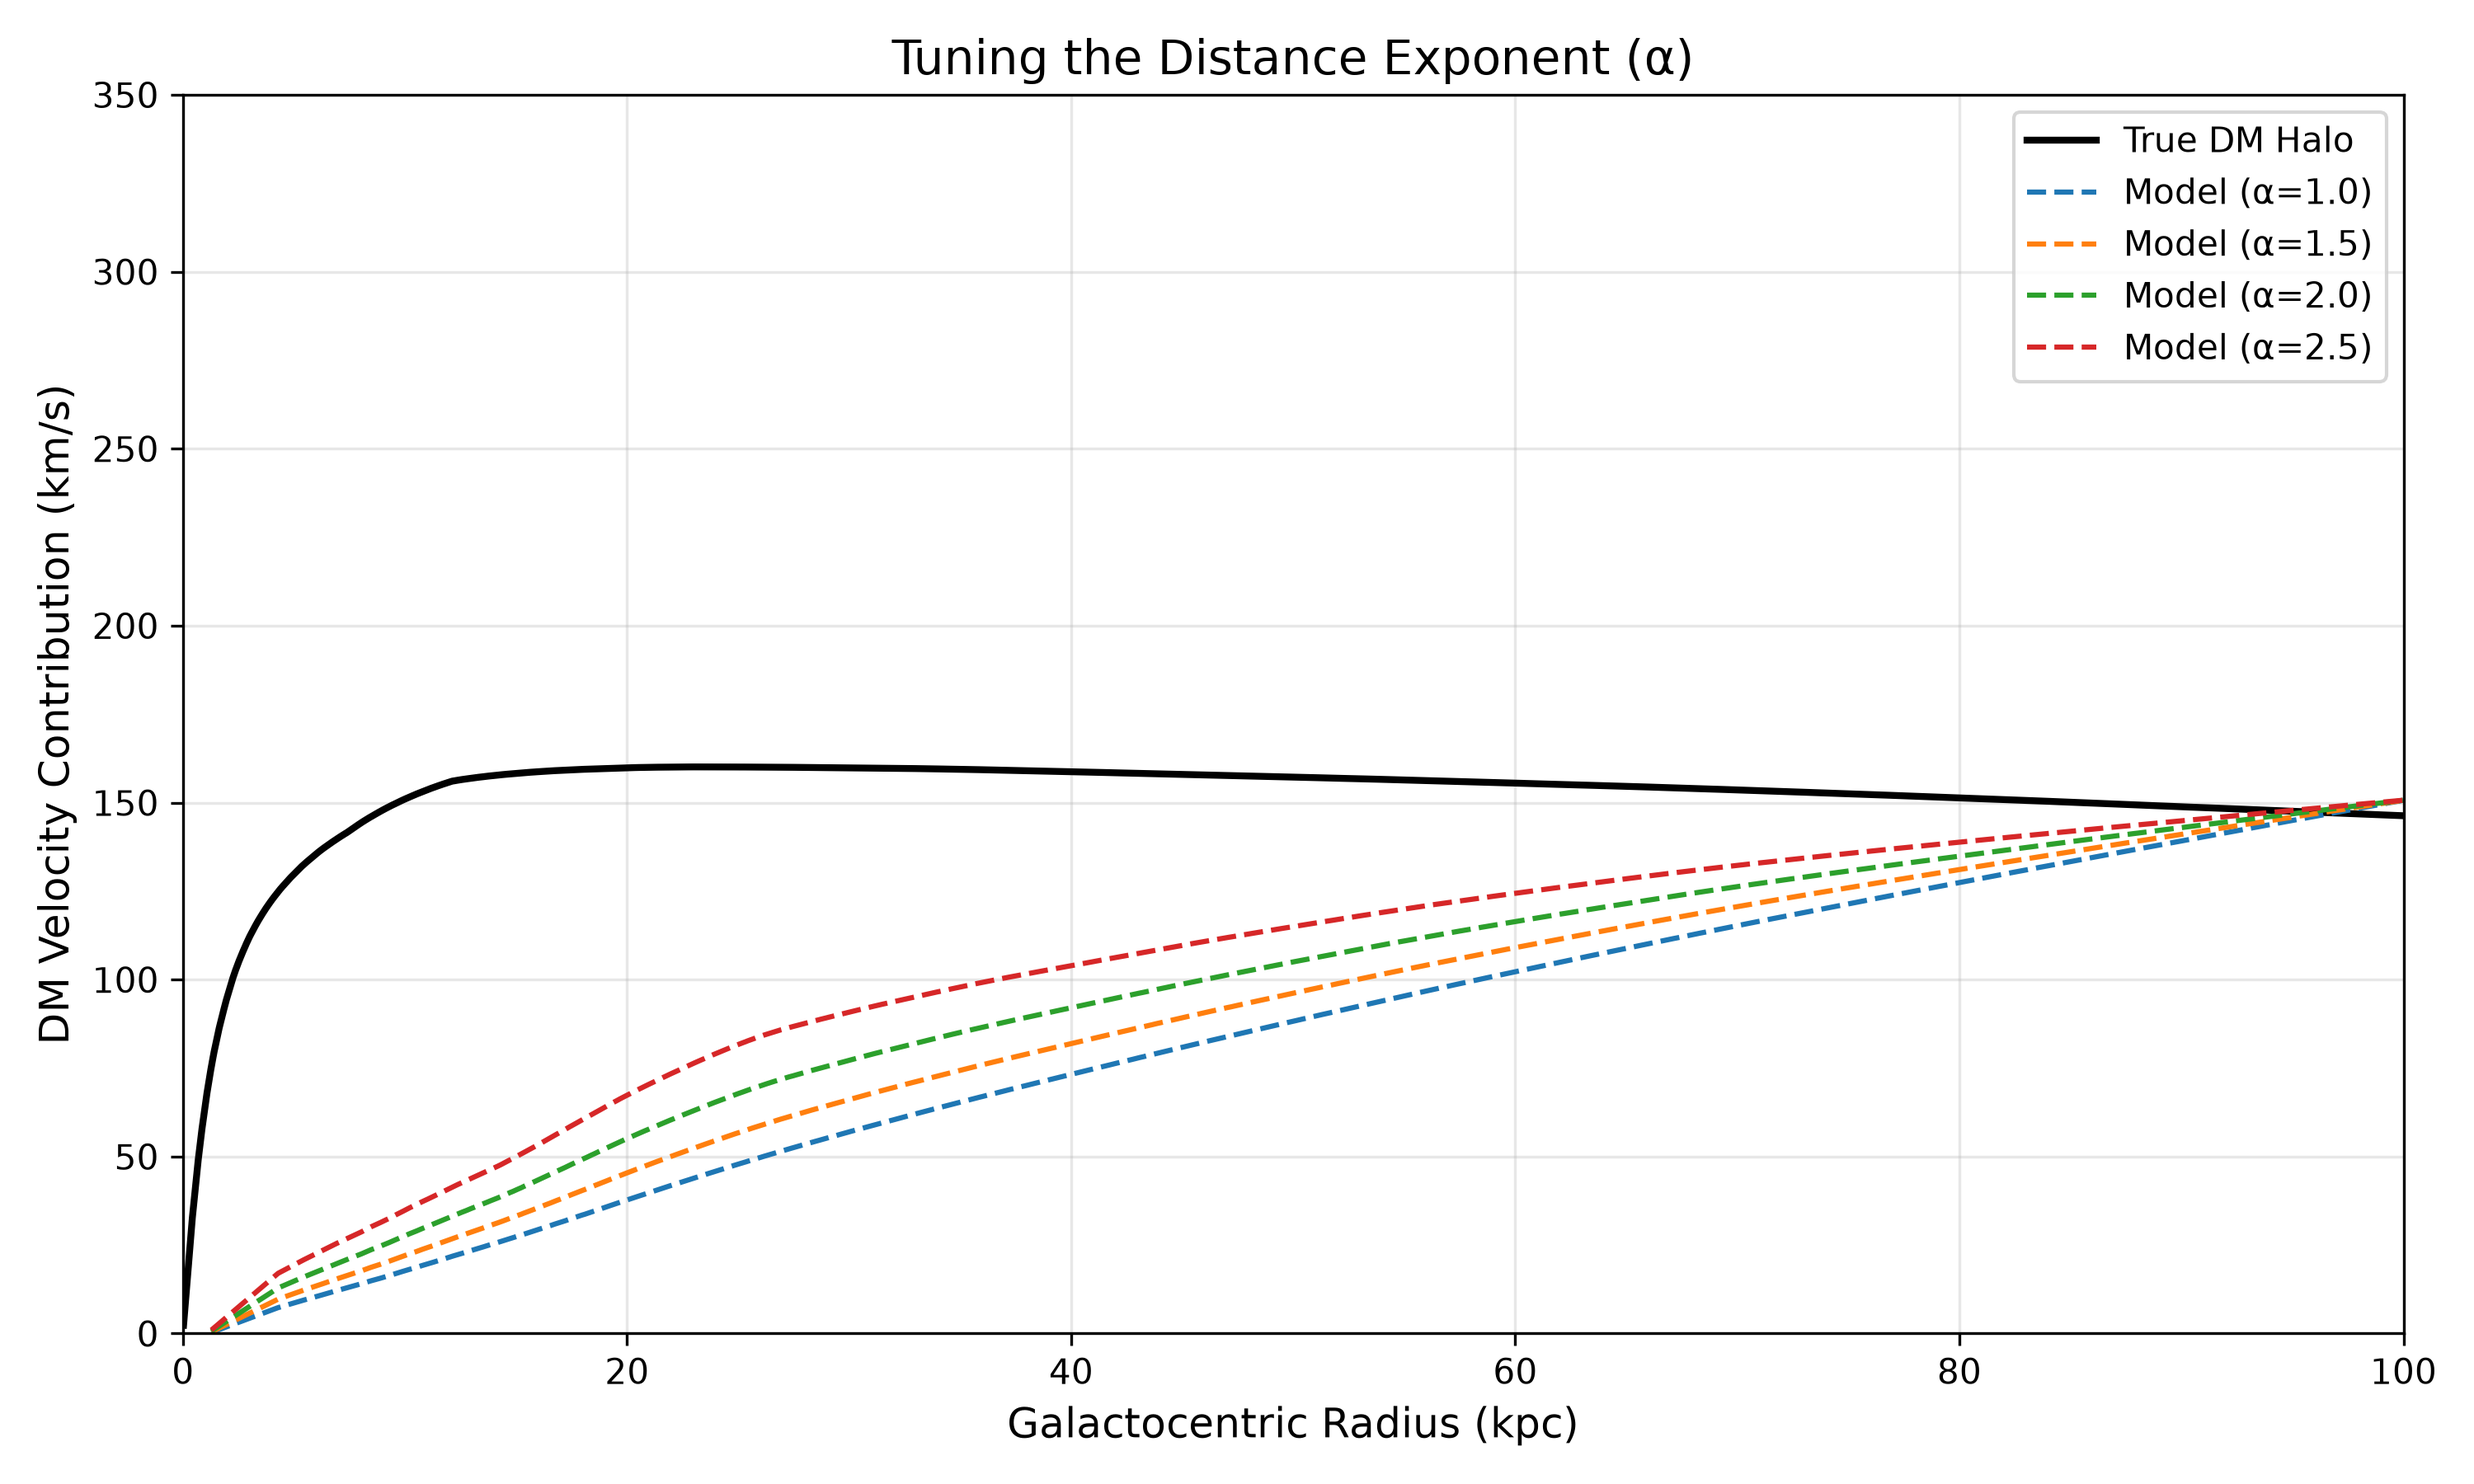
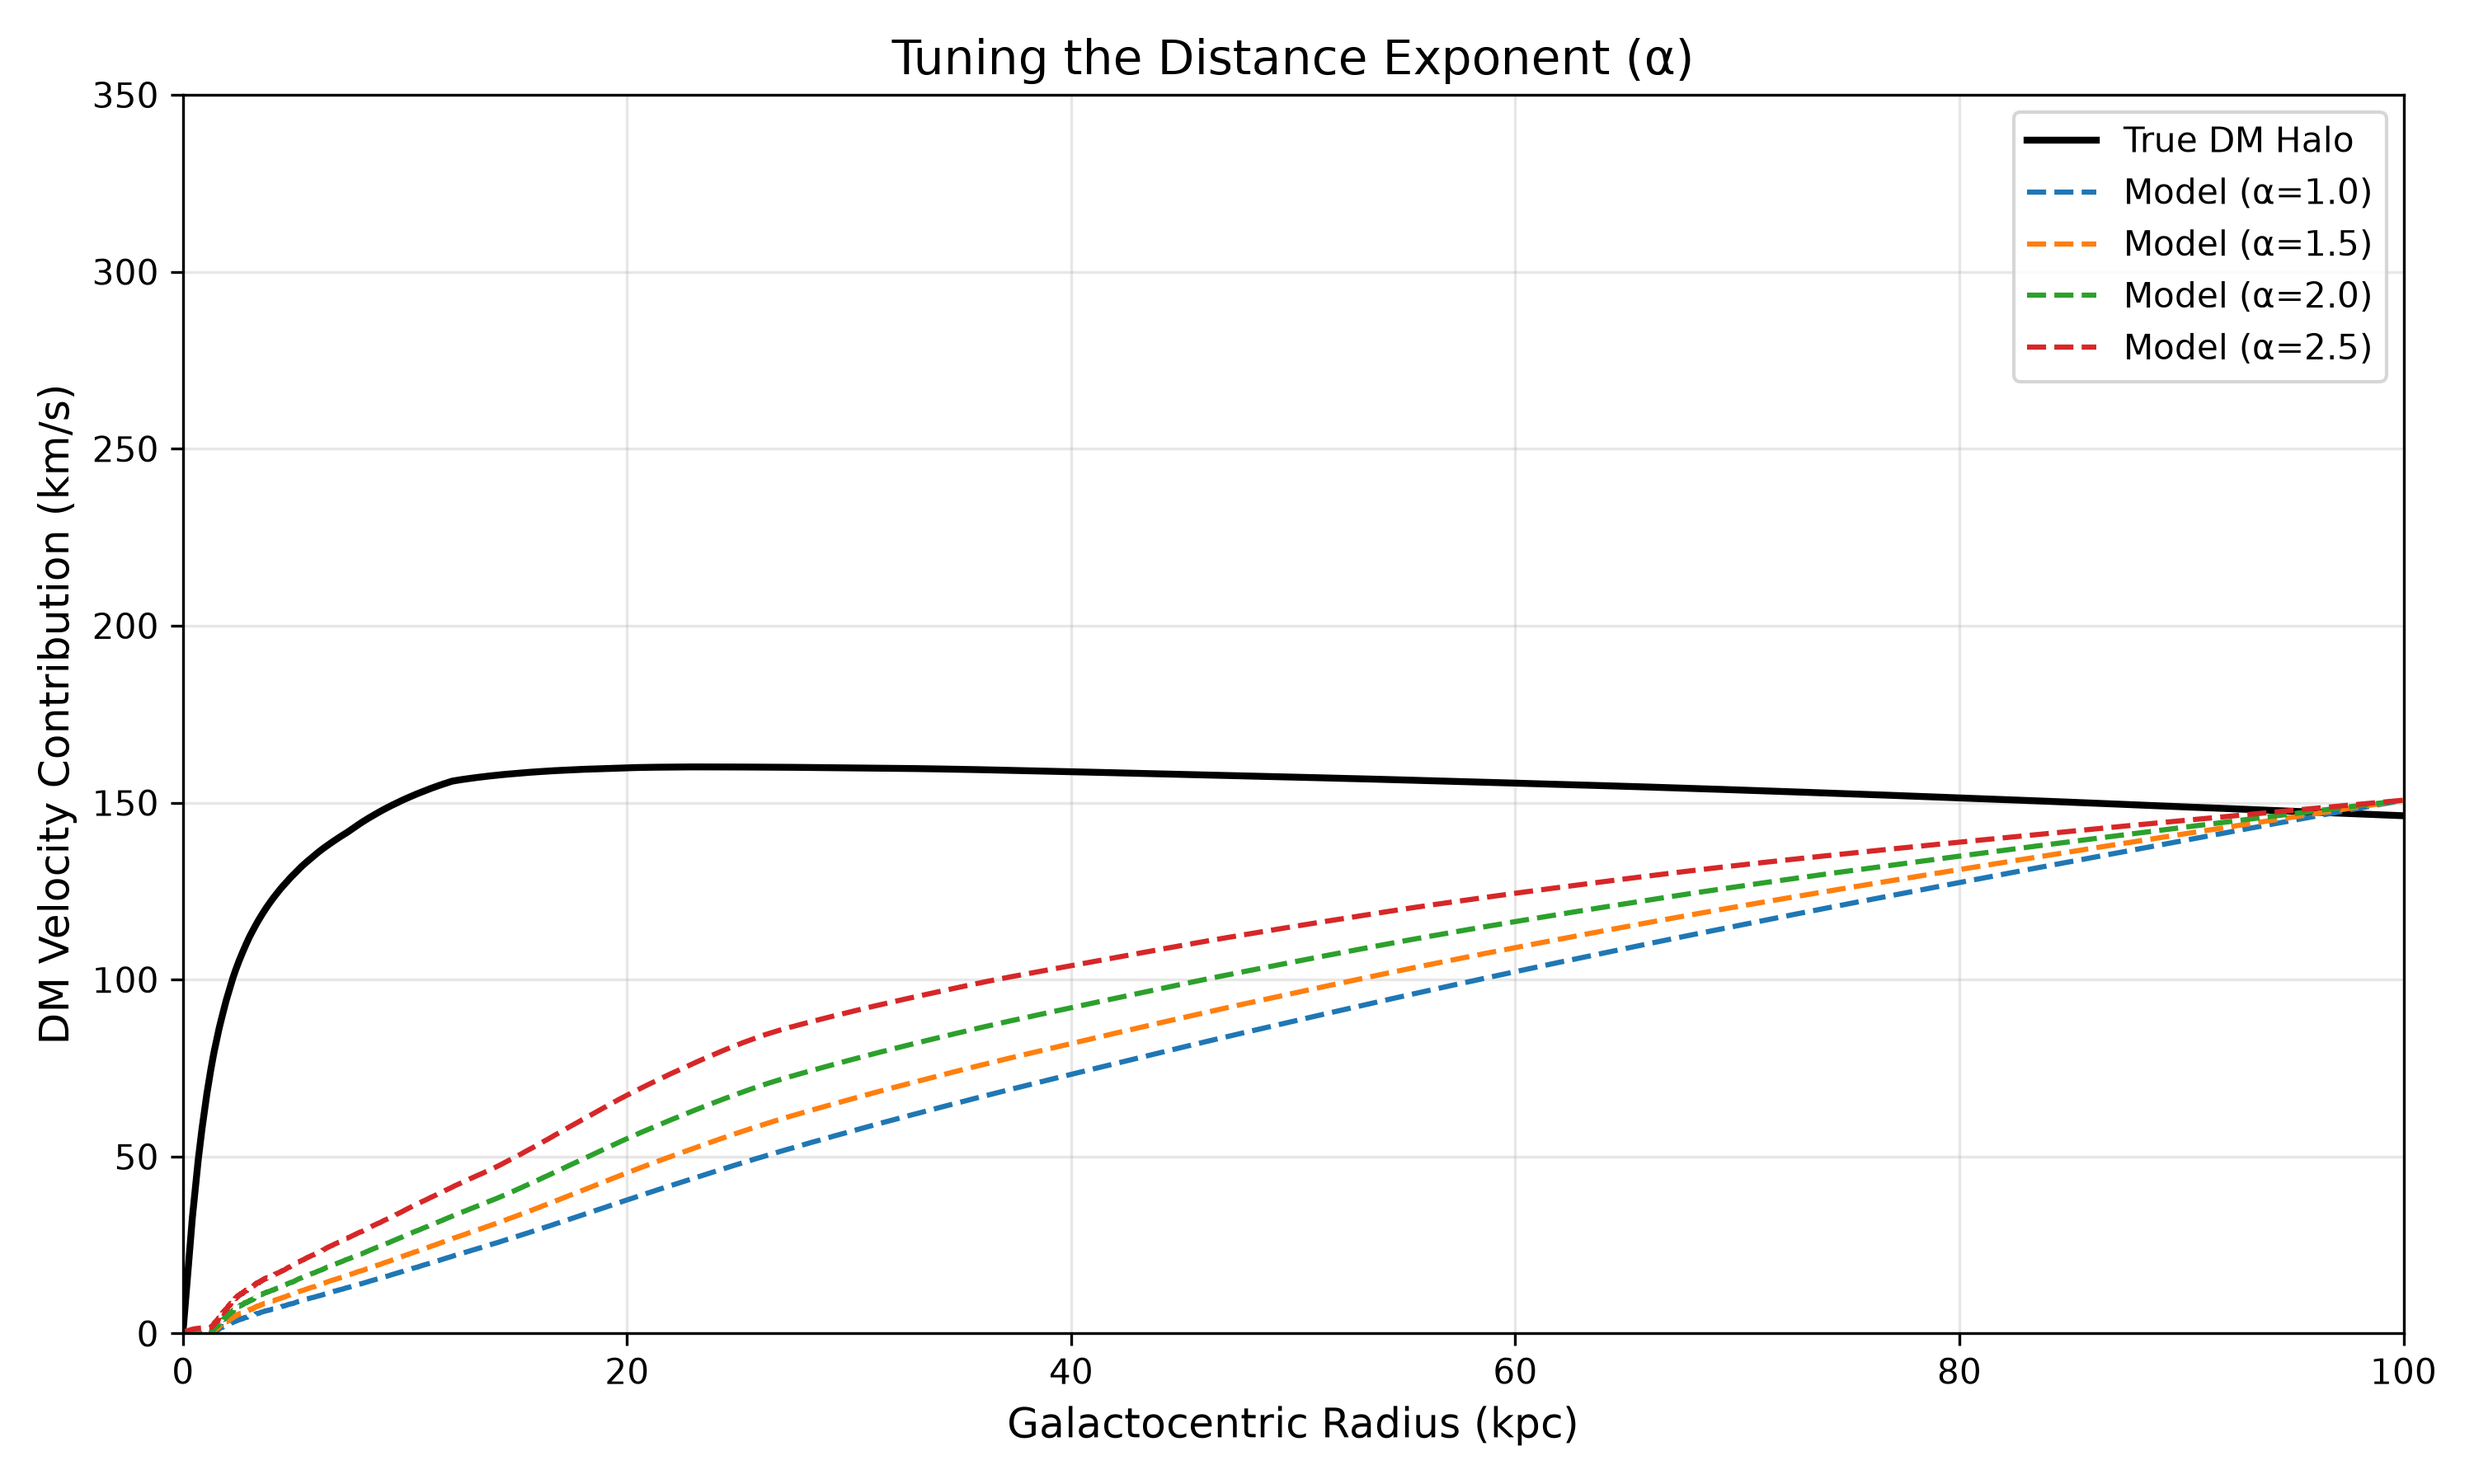
added stars, still working on that

diff --git a/darkmatter.py b/darkmatter.py
@@ -1,4 +1,5 @@
 import numpy as np
+from scipy.spatial import cKDTree
 
 # Following the gemini app discussion "Milky Way Mock Catalogs"
 # download (not included in git repo the m12i simulation)
@@ -14,7 +15,7 @@ import gizmo_analysis as gizmo
 # 1. CONFIGURATION & CONSTANTS
 # ==========================================
 SNAPSHOT_NUM = 600
-DENSITY_THRESHOLD = 0.01  # cm^-3 (filtering for diffuse gas)
+DENSITY_THRESHOLD = 0.05  # cm^-3 (filtering for diffuse gas)
 DISTANCE_LIMIT = 100.0    # kpc
 
 G = 4.3009e-6             # Gravitational constant: kpc * (km/s)^2 / M_sun
@@ -51,6 +52,8 @@ r_stars = part['star'].prop('host.distance.spherical')[:, 0]
 r_gas_all = part['gas'].prop('host.distance.spherical')[:, 0]
 r_dm_all = part['dark'].prop('host.distance.spherical')[:, 0]
 
+# star positions
+pos_stars_all = part['star'].prop('host.distance') # 3D Cartesian coords
 
 # Extract Masses
 mass_stars = part['star']['mass']
@@ -70,6 +73,12 @@ mass_gas = mass_gas_all[low_density_mask]
 n_cm3 = gas_density_cm3[low_density_mask]
 gas_rho_msun_kpc3 = part['gas'].prop('density')[low_density_mask]
 
+# Star filter mask (to save RAM)
+star_mask = r_stars < DISTANCE_LIMIT
+r_stars_f = r_stars[star_mask]
+mass_stars_f = mass_stars[star_mask]
+pos_stars_f = pos_stars_all[star_mask]
+
 # True DM filter mask (to calculate target total DM mass)
 dm_mask = r_dm_all < DISTANCE_LIMIT
 r_dm_true = r_dm_all[dm_mask]
@@ -79,28 +88,49 @@ mass_dm_true = mass_dm_all[dm_mask]
 target_dm_mass_kg = np.sum(mass_dm_true, dtype=np.float64) * MSUN_TO_KG
 
 # ==========================================
-# 4. RUN YOUR DARK MATTER MODEL
+# 4. RUN YOUR DARK MATTER MODEL (GAS + STARS)
 # ==========================================
-print("Running DM model and calculating P...")
-n_m3 = n_cm3.astype(np.float64) * 1e6
-
-# FIX: Upgrade the 32-bit arrays to 64-bit before converting to kg
+print("Running DM model for Gas...")
+n_m3_gas = n_cm3.astype(np.float64) * 1e6
 gas_mass_kg = mass_gas.astype(np.float64) * MSUN_TO_KG
 gas_rho_kg_m3 = gas_rho_msun_kpc3.astype(np.float64) * MSUN_KPC3_TO_KG_M3
 
-# Volumes and Distances (Now safely operating in 64-bit space)
-V_i = gas_mass_kg / gas_rho_kg_m3
-d_avg = np.cbrt(1.0 / n_m3)
+V_i_gas = gas_mass_kg / gas_rho_kg_m3
+d_avg_gas = np.cbrt(1.0 / n_m3_gas)
 
-# Solve for P using alpha = 2 (Standard Model)
+print("Calculating local density for Stars using KD-Tree...")
+# 1. Build a spatial tree and find the 16th nearest neighbor for every star
+tree = cKDTree(pos_stars_f)
+# k=17 because the 1st neighbor is the particle itself
+distances, _ = tree.query(pos_stars_f, k=17, workers=-1) 
+r_16 = distances[:, 16].astype(np.float64) # Distance in kpc
+
+# 2. Calculate Stellar Volume and Density
+V_sphere_kpc3 = (4.0 / 3.0) * np.pi * (r_16**3)
+# Local mass density in kg/m^3
+star_rho_kg_m3 = ((16.0 * mass_stars_f.mean() * MSUN_TO_KG) / V_sphere_kpc3) * MSUN_KPC3_TO_KG_M3
+V_i_star = (mass_stars_f.astype(np.float64) * MSUN_TO_KG) / star_rho_kg_m3
+
+# 3. Convert stellar mass density to baryon number density
+# Average mass of a baryon (proton/neutron) is ~1.67e-27 kg
+mass_baryon_kg = 1.67e-27 
+n_m3_star = star_rho_kg_m3 / mass_baryon_kg
+d_avg_star = np.cbrt(1.0 / n_m3_star)
+
+print("Calculating global Power P...")
 alpha_std = 2.0
-sum_factor = np.sum(V_i / (c**3 * d_avg**alpha_std))
-P = target_dm_mass_kg / sum_factor
-print(f"Calculated Power P: {P:.2e} Watts")
 
-# Calculate predicted DM mass per gas particle
-dm_mass_kg_pred = P * (V_i / (c**3 * d_avg**alpha_std))
-dm_mass_msun_pred = dm_mass_kg_pred / MSUN_TO_KG
+# Sum the contributions from both Gas and Stars
+sum_factor_gas = np.sum(V_i_gas / (c**3 * d_avg_gas**alpha_std))
+sum_factor_star = np.sum(V_i_star / (c**3 * d_avg_star**alpha_std))
+sum_factor_total = sum_factor_gas + sum_factor_star
+
+# Calculate P and distribute the predicted Dark Matter
+P = target_dm_mass_kg / sum_factor_total
+print(f"Calculated Shared Power P: {P:.2e} Watts")
+
+dm_mass_msun_pred_gas = (P * (V_i_gas / (c**3 * d_avg_gas**alpha_std))) / MSUN_TO_KG
+dm_mass_msun_pred_star = (P * (V_i_star / (c**3 * d_avg_star**alpha_std))) / MSUN_TO_KG
 
 # ==========================================
 # 5. CALCULATE ROTATION CURVES
@@ -110,17 +140,17 @@ print("Calculating velocity curves...")
 _, v_stars = get_component_velocity(r_stars, mass_stars)
 _, v_gas = get_component_velocity(r_gas, mass_gas)
 r_dm_t, v_dm_true = get_component_velocity(r_dm_true, mass_dm_true)
-r_dm_p, v_dm_pred = get_component_velocity(r_gas, dm_mass_msun_pred)
+r_dm_p, v_dm_pred = get_component_velocity(r_gas, dm_mass_msun_pred_gas)
 
 # Total curves (combining components)
 all_r_true = np.concatenate([r_stars, r_gas, r_dm_true])
 all_m_true = np.concatenate([mass_stars, mass_gas, mass_dm_true])
 r_tot_true, v_tot_true = get_component_velocity(all_r_true, all_m_true)
 
-all_r_pred = np.concatenate([r_stars, r_gas, r_gas]) # r_gas used twice (gas + pred DM)
-all_m_pred = np.concatenate([mass_stars, mass_gas, dm_mass_msun_pred])
+# We use r_gas and r_stars_f twice because both are now generating DM
+all_r_pred = np.concatenate([r_stars_f, r_gas, r_stars_f, r_gas]) 
+all_m_pred = np.concatenate([mass_stars_f, mass_gas, dm_mass_msun_pred_star, dm_mass_msun_pred_gas])
 r_tot_pred, v_tot_pred = get_component_velocity(all_r_pred, all_m_pred)
-
 # ==========================================
 # 6. PLOTTING AND SAVING THE RESULTS
 # ==========================================
@@ -179,10 +209,24 @@ plt.plot(r_dm_t[::S], v_dm_true[::S], label='True DM Halo', color='black', lw=2)
 alpha_test_values = [1.0, 1.5, 2.0, 2.5]
 
 for a in alpha_test_values:
-    sf = np.sum(V_i / (c**3 * d_avg**a))
-    P_a = target_dm_mass_kg / sf
-    dm_m = (P_a * (V_i / (c**3 * d_avg**a))) / MSUN_TO_KG
-    r_a, v_a = get_component_velocity(r_gas, dm_m)
+    # 1. Sum factors for both components
+    sf_gas = np.sum(V_i_gas / (c**3 * d_avg_gas**a))
+    sf_star = np.sum(V_i_star / (c**3 * d_avg_star**a))
+    sf_total = sf_gas + sf_star
+    
+    # 2. Recalculate P for this alpha
+    P_a = target_dm_mass_kg / sf_total
+    
+    # 3. Calculate DM mass for both components
+    dm_m_gas = (P_a * (V_i_gas / (c**3 * d_avg_gas**a))) / MSUN_TO_KG
+    dm_m_star = (P_a * (V_i_star / (c**3 * d_avg_star**a))) / MSUN_TO_KG
+    
+    # 4. Combine and calculate velocity
+    r_comb = np.concatenate([r_gas, r_stars_f])
+    m_comb = np.concatenate([dm_m_gas, dm_m_star])
+    r_a, v_a = get_component_velocity(r_comb, m_comb)
+    
+    # 5. Plot the result
     plt.plot(r_a[::S], v_a[::S], label=f'Model (α={a})', ls='--')
 
 plt.title('Tuning the Distance Exponent (α)', fontsize=14)
